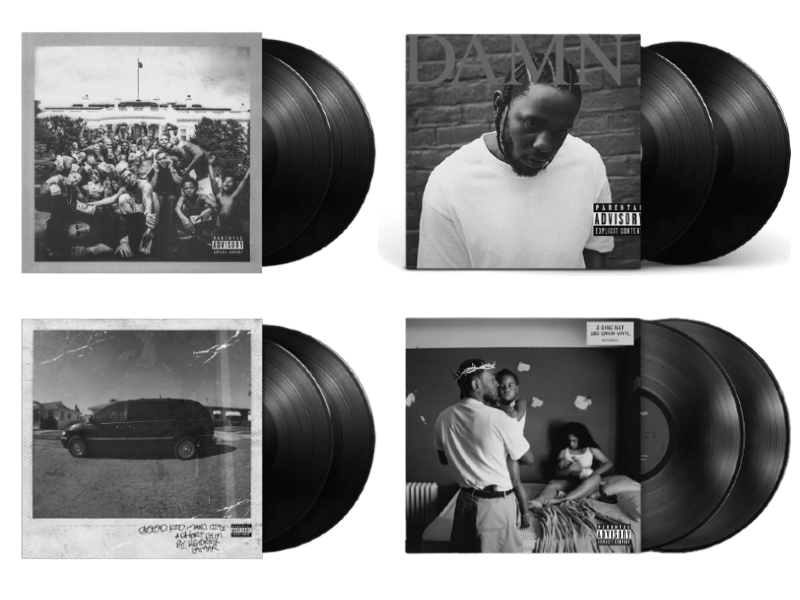
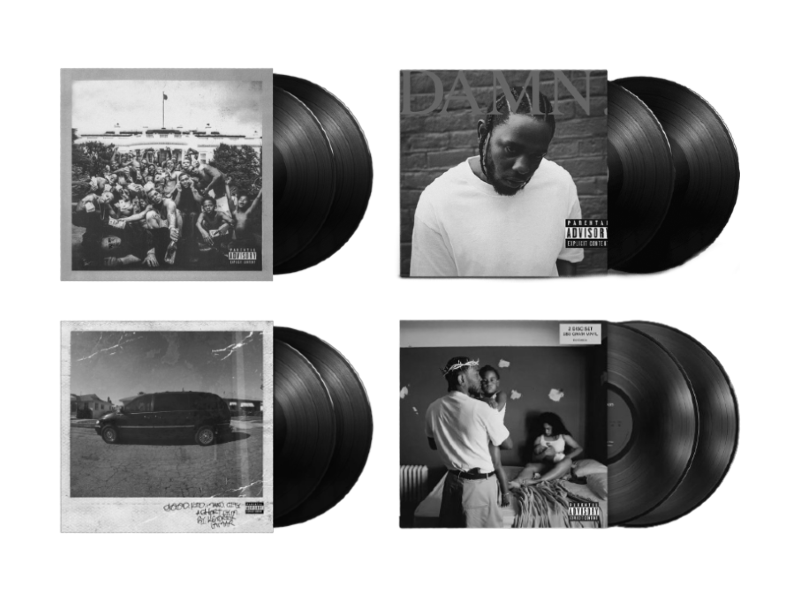
music website

diff --git a/index.html b/index.html
@@ -6,18 +6,15 @@
     <link rel="stylesheet" href="style.css">    
     <link href="https://cdn.jsdelivr.net/npm/bootstrap@5.3.3/dist/css/bootstrap.min.css" rel="stylesheet" integrity="sha384-QWTKZyjpPEjISv5WaRU9OFeRpok6YctnYmDr5pNlyT2bRjXh0JMhjY6hW+ALEwIH" crossorigin="anonymous">
   </head>
-  <body>
+  <body class="color">
     <script src="https://cdn.jsdelivr.net/npm/bootstrap@5.3.3/dist/js/bootstrap.bundle.min.js" integrity="sha384-YvpcrYf0tY3lHB60NNkmXc5s9fDVZLESaAA55NDzOxhy9GkcIdslK1eN7N6jIeHz" crossorigin="anonymous"></script>
-    <!-- Navbar -->
-    <div class="background">
 <nav class="navbar navbar-expand-lg navbar-light">
-  <!-- Container wrapper -->
   <div class="container-fluid">
-    <!-- Navbar brand -->
+  <a href=https://oklama.com>
+    <img link rel="stylesheet" href="https://oklama.com/" class="center2" src="img/Kendrick_Lamar_Logo.png" alt="">
+  </a>
+  
 
-    <img link rel="stylesheet" href="https://oklama.com/" class="center" src="img/Kendrick_Lamar_Logo.png" alt="">
-
-    <!-- Toggle button -->
     <button
       class="navbar-toggler"
       type="button"
@@ -30,19 +27,17 @@
       <i class="fas fa-bars"></i>
     </button>
 
-    <!-- Collapsible wrapper -->
+
     <div class="collapse navbar-collapse" id="navbarSupportedContent">
         </li>
       </ul>
-      <!-- Left links -->
+
     </div>
-    <!-- Collapsible wrapper -->
   </div>
-  <!-- Container wrapper -->
 </nav>
-<!-- Navbar -->
+<a href=https://interscope.com/collections/kendrick-lamar>
 <img class="center" src="img/Vinyals(1).png" alt="">
-</div>
+</a>
     
   </body>
 </html>

diff --git a/style.css b/style.css
@@ -3,6 +3,7 @@
         display: block;
         margin-left: auto;
         margin-right: auto;
+        margin-bottom: 100%;
         
 }
 .left {
@@ -15,6 +16,18 @@
     top: 50%;
     left: 50%;
 }
-.background {
[1 lines of base64/hex data omitted]
-}
+body {
+    background-image: url("https://images2.alphacoders.com/691/691944.jpg");
+    background-repeat: no-repeat;
+    background-position-y: top;
+   }
+   .color {
+    background-image: url("https://www.martela.com/sites/default/files/styles/gallery_full/public/pim2022_files/MU43_light_grey_melamine_fullHD.jpeg?itok=e69l9_Zc");
+    background-position-y: bottom;
+    background-size: 100%;
+   }
+   .center2 {
+    right: 50%s;
+   }
+
+ 
